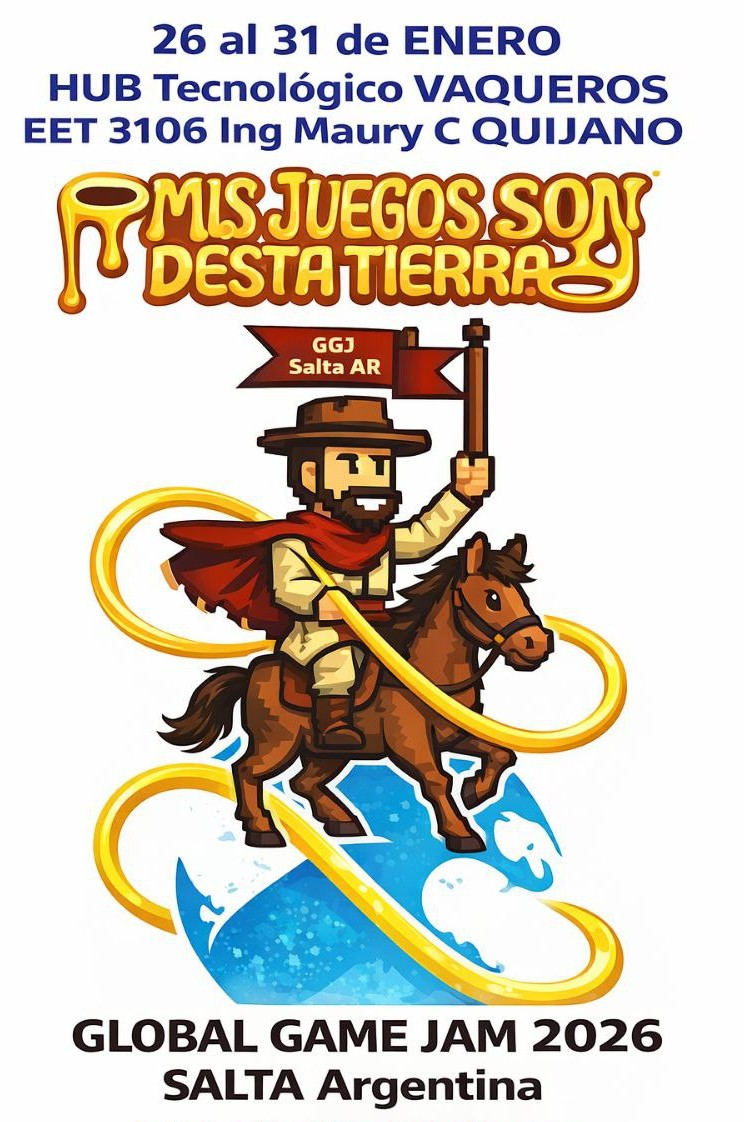
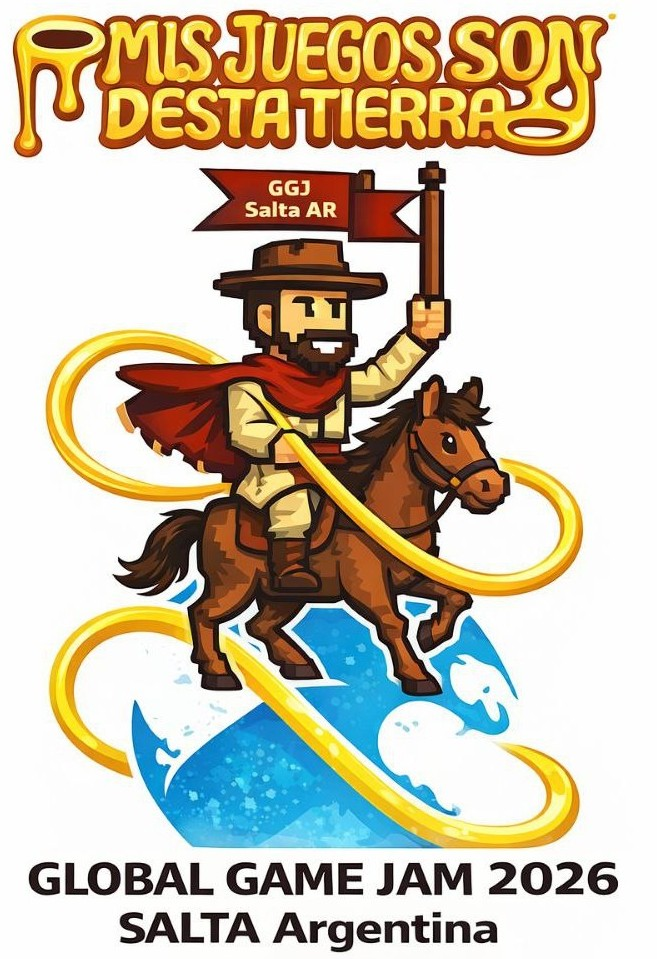
fotos y cambios en html

diff --git a/index.html b/index.html
@@ -94,7 +94,10 @@
 
               <ul class="event-info">
                 <li><strong>📍 Lugar:</strong> Hub Tecnologico Vaqueros</li>
-                <li><strong>📅 Fecha:</strong> Enero 2026</li>
+                <li>
+                  <strong>📍 Lugar:</strong> EET 3106 Ing. Maury C. Quijano
+                </li>
+                <li><strong>📅 Fecha:</strong> 26 al 31 de Enero 2026</li>
               </ul>
 
               <div class="hero-buttons mt-4">
@@ -119,9 +122,9 @@
                   <div class="carousel-item active">
                     <div class="event-image-wrapper">
                       <img
-                        src="./assets/eventos/PEGATINA.png"
+                        src="./assets/eventos/evento2026.jpg"
                         alt="Global Game Jam 2026 - Hub Vaqueros"
-                        class="img-fluid event-image"
+                        class="event-image"
                       />
                     </div>
                   </div>
@@ -620,7 +623,10 @@
               </div>
               <div class="col-6 col-md-4 col-lg-3">
                 <div class="org-card">
-                  <!--img src="img/co1.jpg" alt="Co-organizador"/>-->
+                  <img
+                    src="./assets/fondo/5165650273660242824-removebg-preview.png"
+                    alt="Co-organizador"
+                  />
                   <h6>Victoria Chalup Miranda</h6>
                   <span class="org-role">Co-organizador</span>
 
@@ -877,7 +883,8 @@
 
           <div class="footer-bottom text-center">
             <p>
-              © JN56 - 2026 - Global Game Jam Salta – Hub Tecnologico Vaqueros
+              <a href="https://github.com/Jesica56" target="_blank"> © JN56</a>
+              - 2026 - Global Game Jam Salta – Hub Tecnologico Vaqueros
             </p>
           </div>
         </div>

diff --git a/style.css b/style.css
@@ -208,7 +208,7 @@ section {
 
 .event-image {
   width: 100%;
-  max-width: 420px;
+  max-width: 300px;
   height: auto;
   object-fit: cover;
 }
